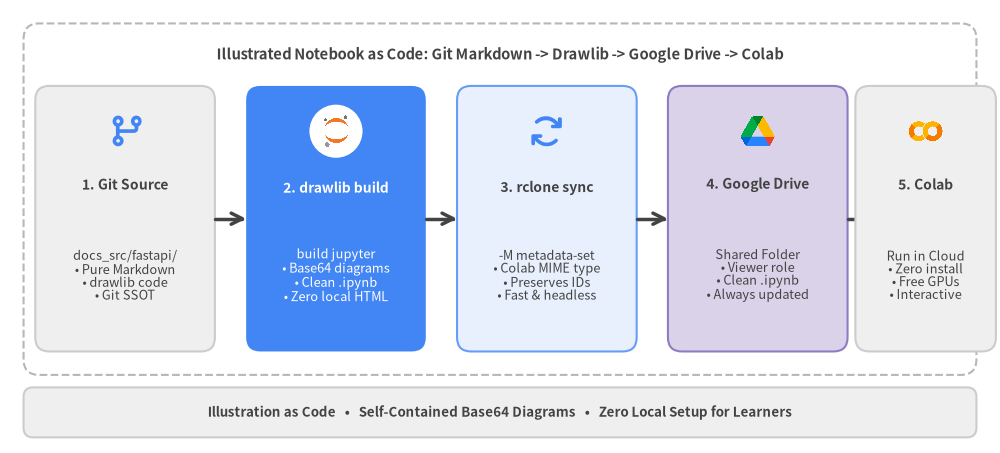
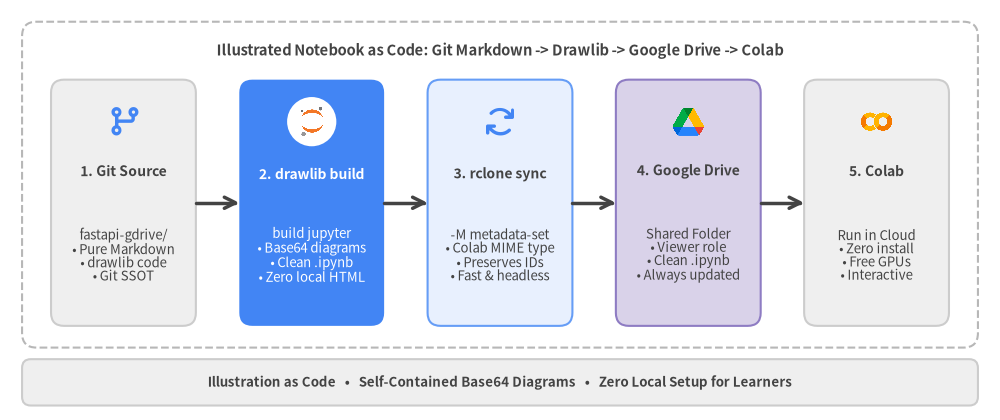
refactor: update fastapi-gdrive pipeline diagram layout and text descriptions

diff --git a/examples/jupyter/fastapi-gdrive/en/01_drawlib_colab_pipeline.md b/examples/jupyter/fastapi-gdrive/en/01_drawlib_colab_pipeline.md
@@ -10,79 +10,79 @@ from drawlib.shapes import circle, rectangle
 from drawlib.styles import Styles
 from drawlib.text import text
 
-setup(width=128, height=58)
+setup(width=138, height=58)
 
 # Outer container
-rectangle((64, 32.5), width=122, height=45, style=Styles.MutedDashed.patch(shape_r=2.0))
+rectangle((69, 32.5), width=132, height=45, style=Styles.MutedDashed.patch(shape_r=2.0))
 text(
-    (64, 51.0),
+    (69, 51.0),
     "Illustrated Notebook as Code: Git Markdown -> Drawlib -> Google Drive -> Colab",
     style=Styles.DarkBold.patch(text_size=10.6),
 )
 
 # Stage 1: Git Markdown Source
-rectangle((16.0, 30.0), width=23, height=34, style=Styles.Neutral.patch(shape_r=1.8))
-phosphor.git_branch((16.0, 41.2), width=4.8, style=Styles.PrimaryBold)
-text((16.0, 34.4), "1. Git Source", style=Styles.DarkBold.patch(text_size=10.0))
+rectangle((17.0, 30.0), width=20, height=34, style=Styles.Neutral.patch(shape_r=1.8))
+phosphor.git_branch((17.0, 41.2), width=4.8, style=Styles.PrimaryBold)
+text((17.0, 34.4), "1. Git Source", style=Styles.DarkBold.patch(text_size=10.0))
 text(
-    (16.0, 22.8),
-    "docs_src/fastapi/\n• Pure Markdown\n• drawlib code\n• Git SSOT",
-    style=Styles.Dark.patch(text_size=9.2),
+    (17.0, 22.8),
+    "fastapi-gdrive/\n• Pure Markdown\n• drawlib code\n• Git SSOT",
+    style=Styles.Dark.patch(text_size=9.5),
 )
 
-line((27.5, 30.0), (31.5, 30.0), arrow_head="->", style=Styles.DarkBold)
+line((27.0, 30.0), (33.0, 30.0), arrow_head="->", style=Styles.DarkBold)
 
 # Stage 2: Drawlib Compiler (Focal Hero)
-rectangle((43.0, 30.0), width=23, height=34, style=Styles.PrimaryFlat.patch(shape_r=1.8))
+rectangle((43.0, 30.0), width=20, height=34, style=Styles.PrimaryFlat.patch(shape_r=1.8))
 circle((43.0, 41.2), radius=3.4, style=Styles.White.patch(shape_line_width=0))
 ai.jupyter((43.0, 41.2), width=4.5, style=Styles.Neutral)
 text((43.0, 34.0), "2. drawlib build", style=Styles.WhiteBold.patch(text_size=10.0))
 text(
     (43.0, 22.8),
     "build jupyter\n• Base64 diagrams\n• Clean .ipynb\n• Zero local HTML",
-    style=Styles.White.patch(text_size=9.2),
+    style=Styles.White.patch(text_size=9.5),
 )
 
-line((54.5, 30.0), (58.5, 30.0), arrow_head="->", style=Styles.DarkBold)
+line((53.0, 30.0), (59.0, 30.0), arrow_head="->", style=Styles.DarkBold)
 
-# Stage 3: rclone copy
-rectangle((70.0, 30.0), width=23, height=34, style=Styles.PrimaryNeutral.patch(shape_r=1.8))
-phosphor.arrows_clockwise((70.0, 41.2), width=4.8, style=Styles.PrimaryBold)
-text((70.0, 34.0), "3. rclone sync", style=Styles.DarkBold.patch(text_size=10.0))
+# Stage 3: rclone sync
+rectangle((69.0, 30.0), width=20, height=34, style=Styles.PrimaryNeutral.patch(shape_r=1.8))
+phosphor.arrows_clockwise((69.0, 41.2), width=4.8, style=Styles.PrimaryBold)
+text((69.0, 34.0), "3. rclone sync", style=Styles.DarkBold.patch(text_size=10.0))
 text(
-    (70.0, 22.8),
+    (69.0, 22.8),
     "-M metadata-set\n• Colab MIME type\n• Preserves IDs\n• Fast & headless",
-    style=Styles.Dark.patch(text_size=9.2),
+    style=Styles.Dark.patch(text_size=9.5),
 )
 
-line((81.5, 30.0), (85.5, 30.0), arrow_head="->", style=Styles.DarkBold)
+line((79.0, 30.0), (85.0, 30.0), arrow_head="->", style=Styles.DarkBold)
 
 # Stage 4: Google Drive Shared Folder
-rectangle((97.0, 30.0), width=23, height=34, style=Styles.SecondaryNeutral.patch(shape_r=1.8))
-workspace.google_drive((97.0, 41.2), width=4.8, style=Styles.Neutral)
-text((97.0, 34.4), "4. Google Drive", style=Styles.DarkBold.patch(text_size=10.0))
+rectangle((95.0, 30.0), width=20, height=34, style=Styles.SecondaryNeutral.patch(shape_r=1.8))
+workspace.google_drive((95.0, 41.2), width=4.8, style=Styles.Neutral)
+text((95.0, 34.4), "4. Google Drive", style=Styles.DarkBold.patch(text_size=10.0))
 text(
-    (97.0, 22.8),
+    (95.0, 22.8),
     "Shared Folder\n• Viewer role\n• Clean .ipynb\n• Always updated",
-    style=Styles.Dark.patch(text_size=9.2),
+    style=Styles.Dark.patch(text_size=9.5),
 )
 
-line((108.5, 30.0), (112.5, 30.0), arrow_head="->", style=Styles.DarkBold)
+line((105.0, 30.0), (111.0, 30.0), arrow_head="->", style=Styles.DarkBold)
 
 # Stage 5: Google Colaboratory (Recipient run)
-rectangle((118.5, 30.0), width=18, height=34, style=Styles.Neutral.patch(shape_r=1.8))
-code_icons.colab((118.5, 41.2), width=4.8, style=Styles.Neutral)
-text((118.5, 34.4), "5. Colab", style=Styles.DarkBold.patch(text_size=10.0))
+rectangle((121.0, 30.0), width=20, height=34, style=Styles.Neutral.patch(shape_r=1.8))
+code_icons.colab((121.0, 41.2), width=4.8, style=Styles.Neutral)
+text((121.0, 34.4), "5. Colab", style=Styles.DarkBold.patch(text_size=10.0))
 text(
-    (118.5, 22.8),
+    (121.0, 22.8),
     "Run in Cloud\n• Zero install\n• Free GPUs\n• Interactive",
-    style=Styles.Dark.patch(text_size=9.2),
+    style=Styles.Dark.patch(text_size=9.5),
 )
 
 # Bottom ribbon
 rectangle(
-    (64, 5.2),
-    width=122,
+    (69, 5.2),
+    width=132,
     height=6.4,
     style=Styles.Neutral.patch(shape_r=1.2),
     text="Illustration as Code   •   Self-Contained Base64 Diagrams   •   Zero Local Setup for Learners",

diff --git a/examples/jupyter/fastapi-gdrive/ja/01_drawlib_colab_pipeline.md b/examples/jupyter/fastapi-gdrive/ja/01_drawlib_colab_pipeline.md
@@ -10,79 +10,79 @@ from drawlib.shapes import circle, rectangle
 from drawlib.styles import Styles
 from drawlib.text import text
 
-setup(width=128, height=58)
+setup(width=138, height=58)
 
 # Outer container
-rectangle((64, 32.5), width=122, height=45, style=Styles.MutedDashed.patch(shape_r=2.0))
+rectangle((69, 32.5), width=132, height=45, style=Styles.MutedDashed.patch(shape_r=2.0))
 text(
-    (64, 51.0),
+    (69, 51.0),
     "Illustrated Notebook as Code: Git Markdown -> Drawlib -> Google Drive -> Colab",
     style=Styles.DarkBold.patch(text_size=10.6),
 )
 
 # Stage 1: Git Markdown Source
-rectangle((16.0, 30.0), width=23, height=34, style=Styles.Neutral.patch(shape_r=1.8))
-phosphor.git_branch((16.0, 41.2), width=4.8, style=Styles.PrimaryBold)
-text((16.0, 34.4), "1. Git Source", style=Styles.DarkBold.patch(text_size=10.0))
+rectangle((17.0, 30.0), width=20, height=34, style=Styles.Neutral.patch(shape_r=1.8))
+phosphor.git_branch((17.0, 41.2), width=4.8, style=Styles.PrimaryBold)
+text((17.0, 34.4), "1. Git Source", style=Styles.DarkBold.patch(text_size=10.0))
 text(
-    (16.0, 22.8),
-    "docs_src/fastapi/\n• Pure Markdown\n• drawlib code\n• Git SSOT",
-    style=Styles.Dark.patch(text_size=9.2),
+    (17.0, 22.8),
+    "fastapi-gdrive/\n• Pure Markdown\n• drawlib code\n• Git SSOT",
+    style=Styles.Dark.patch(text_size=9.5),
 )
 
-line((27.5, 30.0), (31.5, 30.0), arrow_head="->", style=Styles.DarkBold)
+line((27.0, 30.0), (33.0, 30.0), arrow_head="->", style=Styles.DarkBold)
 
 # Stage 2: Drawlib Compiler (Focal Hero)
-rectangle((43.0, 30.0), width=23, height=34, style=Styles.PrimaryFlat.patch(shape_r=1.8))
+rectangle((43.0, 30.0), width=20, height=34, style=Styles.PrimaryFlat.patch(shape_r=1.8))
 circle((43.0, 41.2), radius=3.4, style=Styles.White.patch(shape_line_width=0))
 ai.jupyter((43.0, 41.2), width=4.5, style=Styles.Neutral)
 text((43.0, 34.0), "2. drawlib build", style=Styles.WhiteBold.patch(text_size=10.0))
 text(
     (43.0, 22.8),
     "build jupyter\n• Base64 diagrams\n• Clean .ipynb\n• Zero local HTML",
-    style=Styles.White.patch(text_size=9.2),
+    style=Styles.White.patch(text_size=9.5),
 )
 
-line((54.5, 30.0), (58.5, 30.0), arrow_head="->", style=Styles.DarkBold)
+line((53.0, 30.0), (59.0, 30.0), arrow_head="->", style=Styles.DarkBold)
 
-# Stage 3: rclone copy
-rectangle((70.0, 30.0), width=23, height=34, style=Styles.PrimaryNeutral.patch(shape_r=1.8))
-phosphor.arrows_clockwise((70.0, 41.2), width=4.8, style=Styles.PrimaryBold)
-text((70.0, 34.0), "3. rclone sync", style=Styles.DarkBold.patch(text_size=10.0))
+# Stage 3: rclone sync
+rectangle((69.0, 30.0), width=20, height=34, style=Styles.PrimaryNeutral.patch(shape_r=1.8))
+phosphor.arrows_clockwise((69.0, 41.2), width=4.8, style=Styles.PrimaryBold)
+text((69.0, 34.0), "3. rclone sync", style=Styles.DarkBold.patch(text_size=10.0))
 text(
-    (70.0, 22.8),
+    (69.0, 22.8),
     "-M metadata-set\n• Colab MIME type\n• Preserves IDs\n• Fast & headless",
-    style=Styles.Dark.patch(text_size=9.2),
+    style=Styles.Dark.patch(text_size=9.5),
 )
 
-line((81.5, 30.0), (85.5, 30.0), arrow_head="->", style=Styles.DarkBold)
+line((79.0, 30.0), (85.0, 30.0), arrow_head="->", style=Styles.DarkBold)
 
 # Stage 4: Google Drive Shared Folder
-rectangle((97.0, 30.0), width=23, height=34, style=Styles.SecondaryNeutral.patch(shape_r=1.8))
-workspace.google_drive((97.0, 41.2), width=4.8, style=Styles.Neutral)
-text((97.0, 34.4), "4. Google Drive", style=Styles.DarkBold.patch(text_size=10.0))
+rectangle((95.0, 30.0), width=20, height=34, style=Styles.SecondaryNeutral.patch(shape_r=1.8))
+workspace.google_drive((95.0, 41.2), width=4.8, style=Styles.Neutral)
+text((95.0, 34.4), "4. Google Drive", style=Styles.DarkBold.patch(text_size=10.0))
 text(
-    (97.0, 22.8),
+    (95.0, 22.8),
     "Shared Folder\n• Viewer role\n• Clean .ipynb\n• Always updated",
-    style=Styles.Dark.patch(text_size=9.2),
+    style=Styles.Dark.patch(text_size=9.5),
 )
 
-line((108.5, 30.0), (112.5, 30.0), arrow_head="->", style=Styles.DarkBold)
+line((105.0, 30.0), (111.0, 30.0), arrow_head="->", style=Styles.DarkBold)
 
 # Stage 5: Google Colaboratory (Recipient run)
-rectangle((118.5, 30.0), width=18, height=34, style=Styles.Neutral.patch(shape_r=1.8))
-code_icons.colab((118.5, 41.2), width=4.8, style=Styles.Neutral)
-text((118.5, 34.4), "5. Colab", style=Styles.DarkBold.patch(text_size=10.0))
+rectangle((121.0, 30.0), width=20, height=34, style=Styles.Neutral.patch(shape_r=1.8))
+code_icons.colab((121.0, 41.2), width=4.8, style=Styles.Neutral)
+text((121.0, 34.4), "5. Colab", style=Styles.DarkBold.patch(text_size=10.0))
 text(
-    (118.5, 22.8),
+    (121.0, 22.8),
     "Run in Cloud\n• Zero install\n• Free GPUs\n• Interactive",
-    style=Styles.Dark.patch(text_size=9.2),
+    style=Styles.Dark.patch(text_size=9.5),
 )
 
 # Bottom ribbon
 rectangle(
-    (64, 5.2),
-    width=122,
+    (69, 5.2),
+    width=132,
     height=6.4,
     style=Styles.Neutral.patch(shape_r=1.2),
     text="Illustration as Code   •   Self-Contained Base64 Diagrams   •   Zero Local Setup for Learners",
